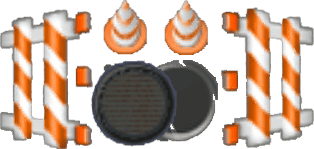
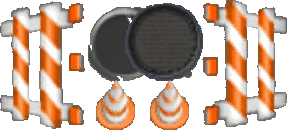
obstacles placed at random positions. :D

diff --git a/game.py b/game.py
@@ -4,7 +4,7 @@ from sys import exit
 import car
 import obstacle
 import road
-
+import random
 
 # Screen Size
 screenSize = (1024, 768)
@@ -29,22 +29,21 @@ class Game:
         self.R1 = road.Road(roadImage, [0, 0], 5)
         self.R2 = road.Road(roadImage, [0, 0 - roadImage.get_rect().height], 5)
         self.car = car.Car(carImage, [ self.R1.width/2 - carImage.get_rect().width/2, self.R1.height - carImage.get_rect().height - 50 ], 5)
-        self.O1 = obstacle.Obstacle(obstacleImages[0], [ 0, 0 ], 5)
-        self.O2 = obstacle.Obstacle(obstacleImages[1], [ self.R1.width - obstacleImages[1].get_rect().width, 0 ], 5)
-        self.O3 = obstacle.Obstacle(obstacleImages[2], [ self.R1.width/4 , 0 ], 5)
-        self.O4 = obstacle.Obstacle(obstacleImages[3], [ 3 * self.R1.width/4 , 0 ], 5)
+        self.obstacles = []
 
     def run(self):
+        y = 192
         pygame.init
         pygame.display.set_caption('BRAKE FAIL')
         self.screen = pygame.display.set_mode(self.size, 0, 32)
         self.R1.image = self.R1.image.convert()
         self.R2.image = self.R2.image.convert()
         self.car.image = self.car.image.convert_alpha()
-        self.O1.image = self.O1.image.convert_alpha()
-        self.O2.image = self.O2.image.convert_alpha()
-        self.O3.image = self.O3.image.convert_alpha()
-        self.O4.image = self.O4.image.convert_alpha()
+        for images in obstacleImages:
+            images = images.convert_alpha()
+        for i in range(4):
+            self.obstacles.append(obstacle.Obstacle(obstacleImages[random.randint(0, 3)],  -y, 6),)
+            y += 192
         while True:
             self.handleEvents()
             self.updateScreen()
@@ -69,16 +68,16 @@ class Game:
         self.screen.blit(self.R1.image, (self.R1.posx, self.R1.posy))
         self.screen.blit(self.R2.image, (self.R2.posx, self.R2.posy))
         self.screen.blit(self.car.image, (self.car.posx, self.car.posy))
-        self.screen.blit(self.O1.image, (self.O1.posx, self.O1.posy))
-        self.screen.blit(self.O2.image, (self.O2.posx, self.O2.posy))
-        self.screen.blit(self.O3.image, (self.O3.posx, self.O3.posy))
-        self.screen.blit(self.O4.image, (self.O4.posx, self.O4.posy))
+        for ob in self.obstacles:
+            self.screen.blit(ob.image, (ob.posx, ob.posy))
         pygame.display.update()
         self.R1.move()
         self.R2.move()
         self.car.move()
-        self.O1.move()
-        self.O2.move()
-        self.O3.move()
-        self.O4.move()
+        for ob in self.obstacles:
+            ob.move()
+            if ob.posy > 768:
+                ob.image = obstacleImages[random.randint(0, 3)]
+                ob.posy = -192
+                ob.posx = random.randint(0, 1024 - ob.width)
         fpsClock.tick(FPS)

diff --git a/obstacle.py b/obstacle.py
@@ -1,13 +1,13 @@
+import random
+
 class Obstacle:
-    def __init__(self, image, pos, speed):
+    def __init__(self, image, posy, speed):
         self.image = image
-        self.posx = pos[0]
-        self.posy = pos[1]
-        self.speed = speed
         self.height = self.image.get_rect().height
         self.width = self.image.get_rect().width
+        self.posx = random.randint(0, 1024 - self.width)
+        self.posy = posy
+        self.speed = speed
 
     def move(self):
         self.posy += self.speed
-        if(self.posy > 768):
-            self.posy -= 768+self.height

diff --git a/road.py b/road.py
@@ -1,11 +1,11 @@
 class Road:
     def __init__(self, image, pos, speed):
-         self.image = image
-         self.speed = speed
-         self.posx = pos[0]
-         self.posy = pos[1]
-         self.height = self.image.get_rect().height
-         self.width = self.image.get_rect().width
+        self.image = image
+        self.height = self.image.get_rect().height
+        self.width = self.image.get_rect().width
+        self.speed = speed
+        self.posx = pos[0]
+        self.posy = pos[1]
 
     def move(self):
         self.posy += self.speed

diff --git a/car.py b/car.py
@@ -1,11 +1,11 @@
 class Car:
     def __init__(self, image, pos, speed):
         self.image = image
+        self.height = self.image.get_rect().height
+        self.width = self.image.get_rect().width
         self.speed = speed
         self.posx = pos[0]
         self.posy = pos[1]
-        self.height = self.image.get_rect().height
-        self.width = self.image.get_rect().width
         self.isMovingLeft = False
         self.isMovingRight = False
 
